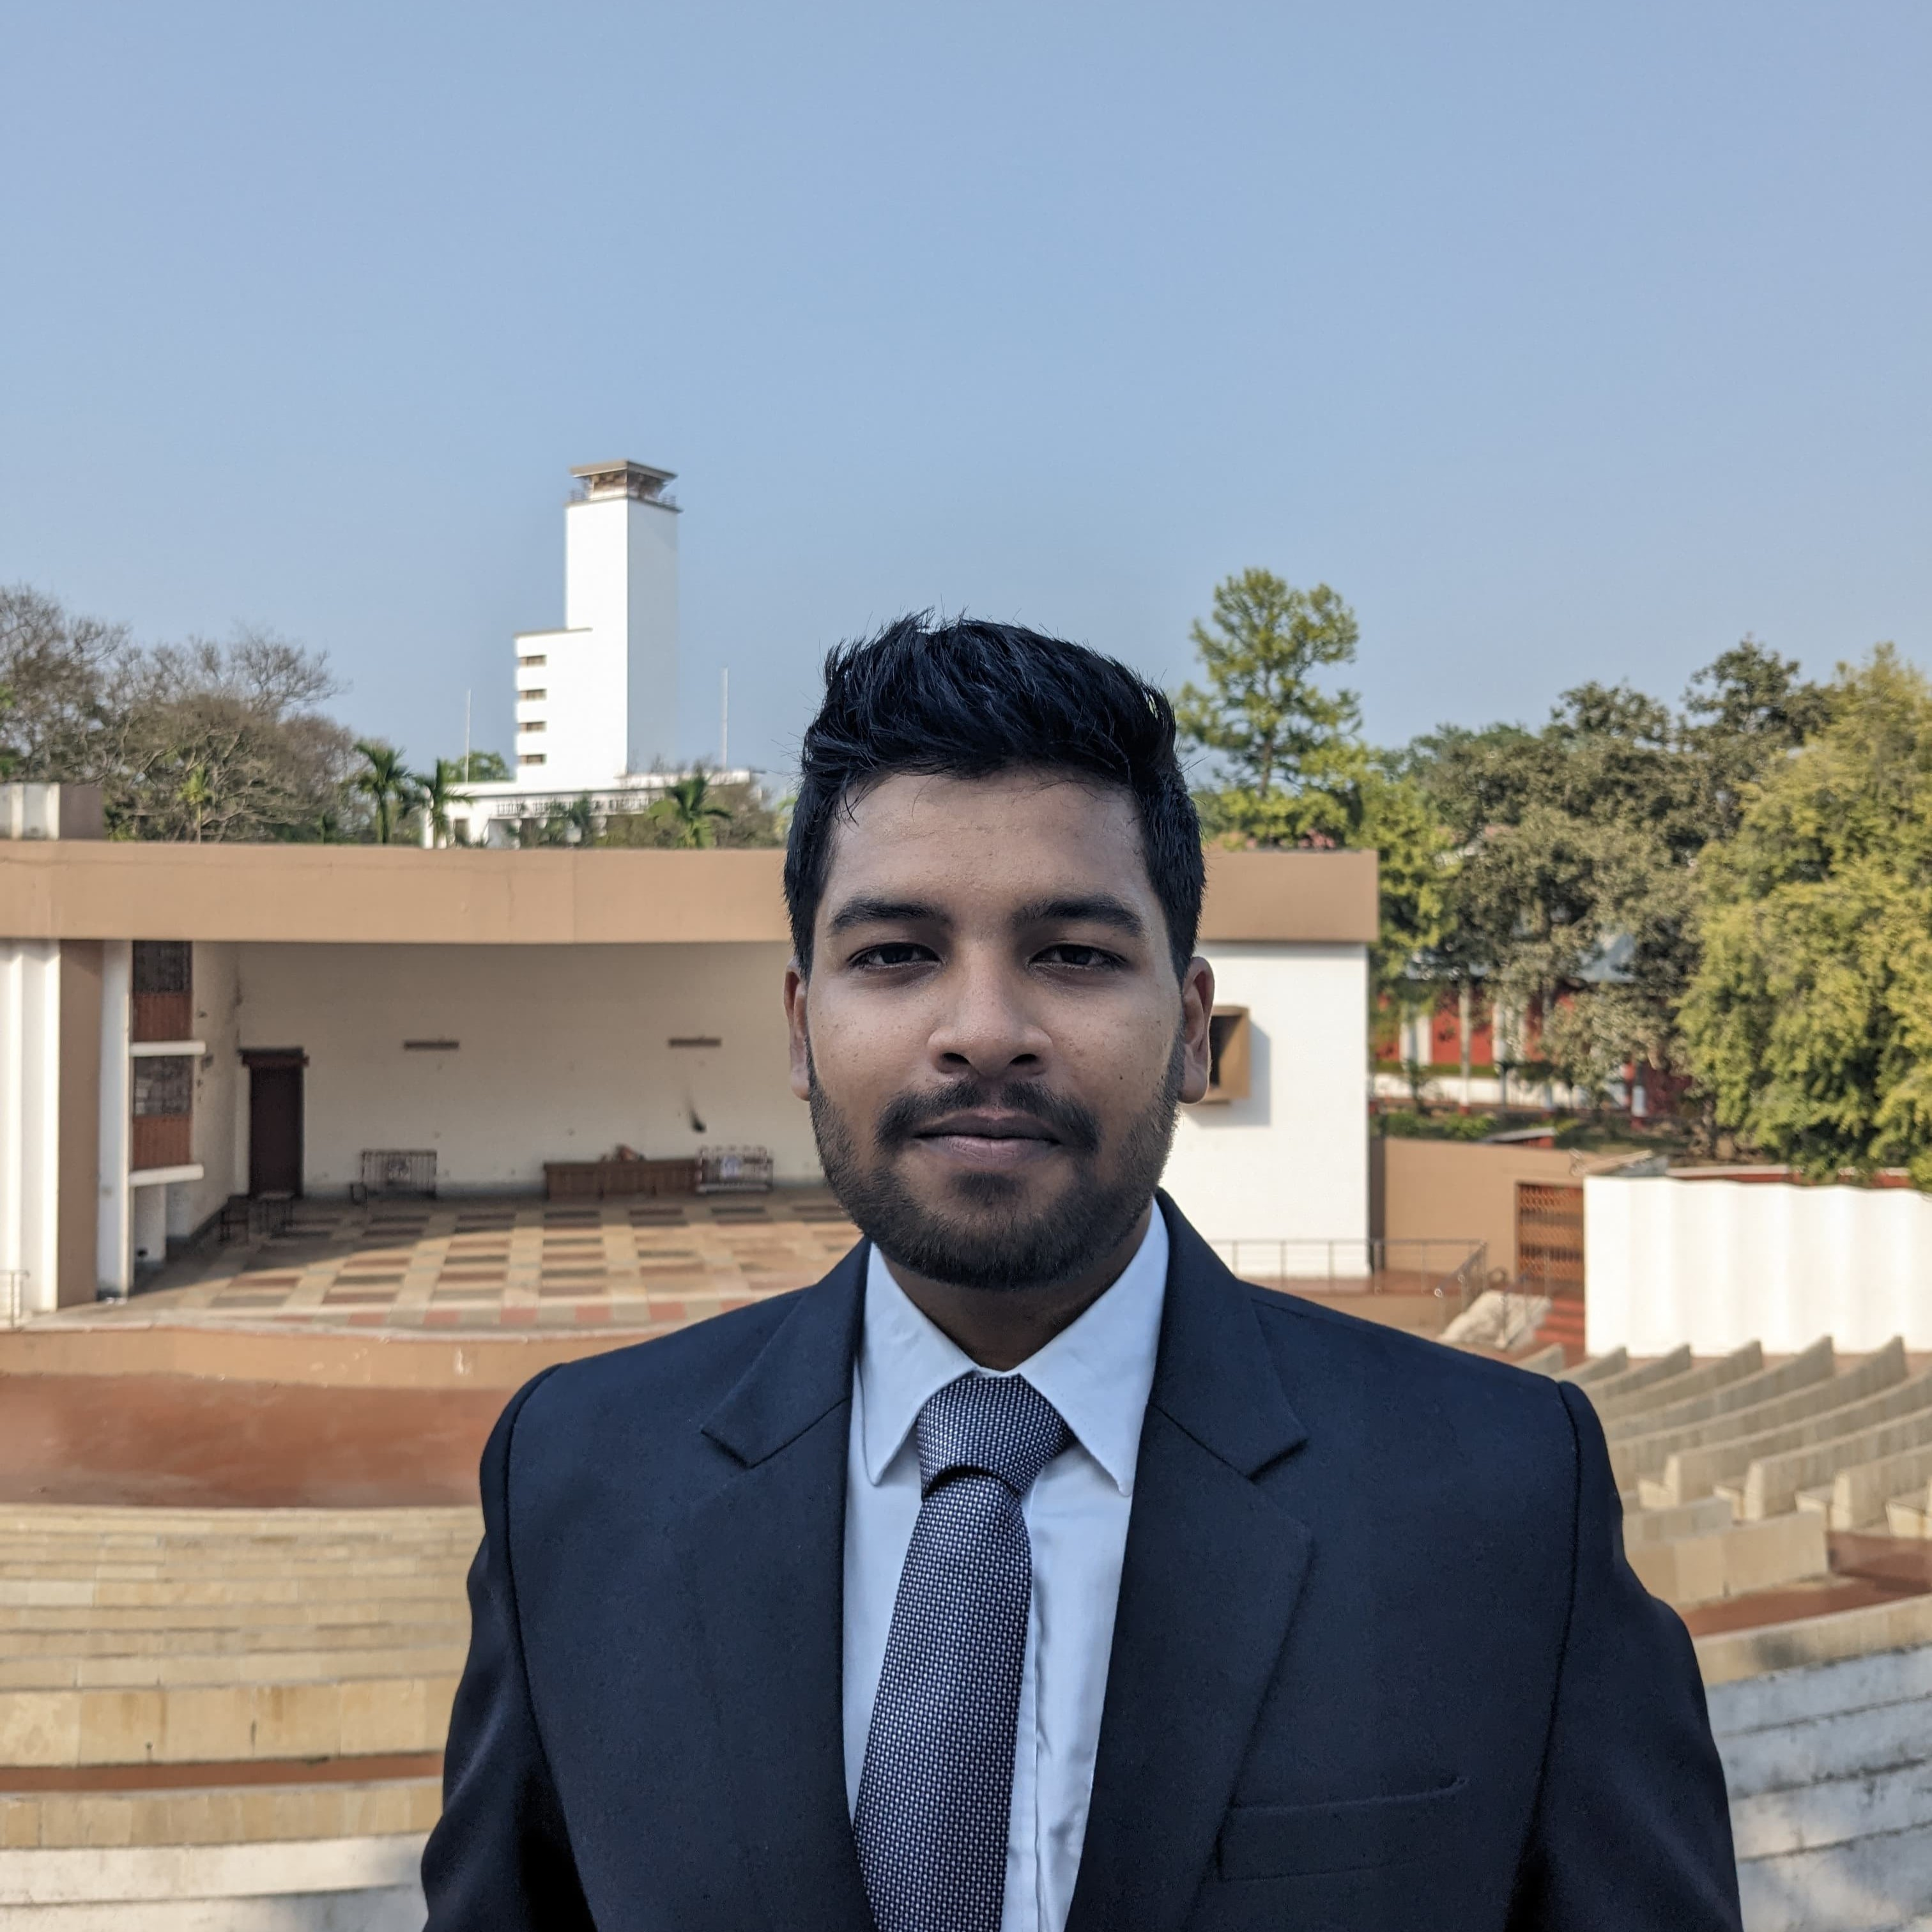
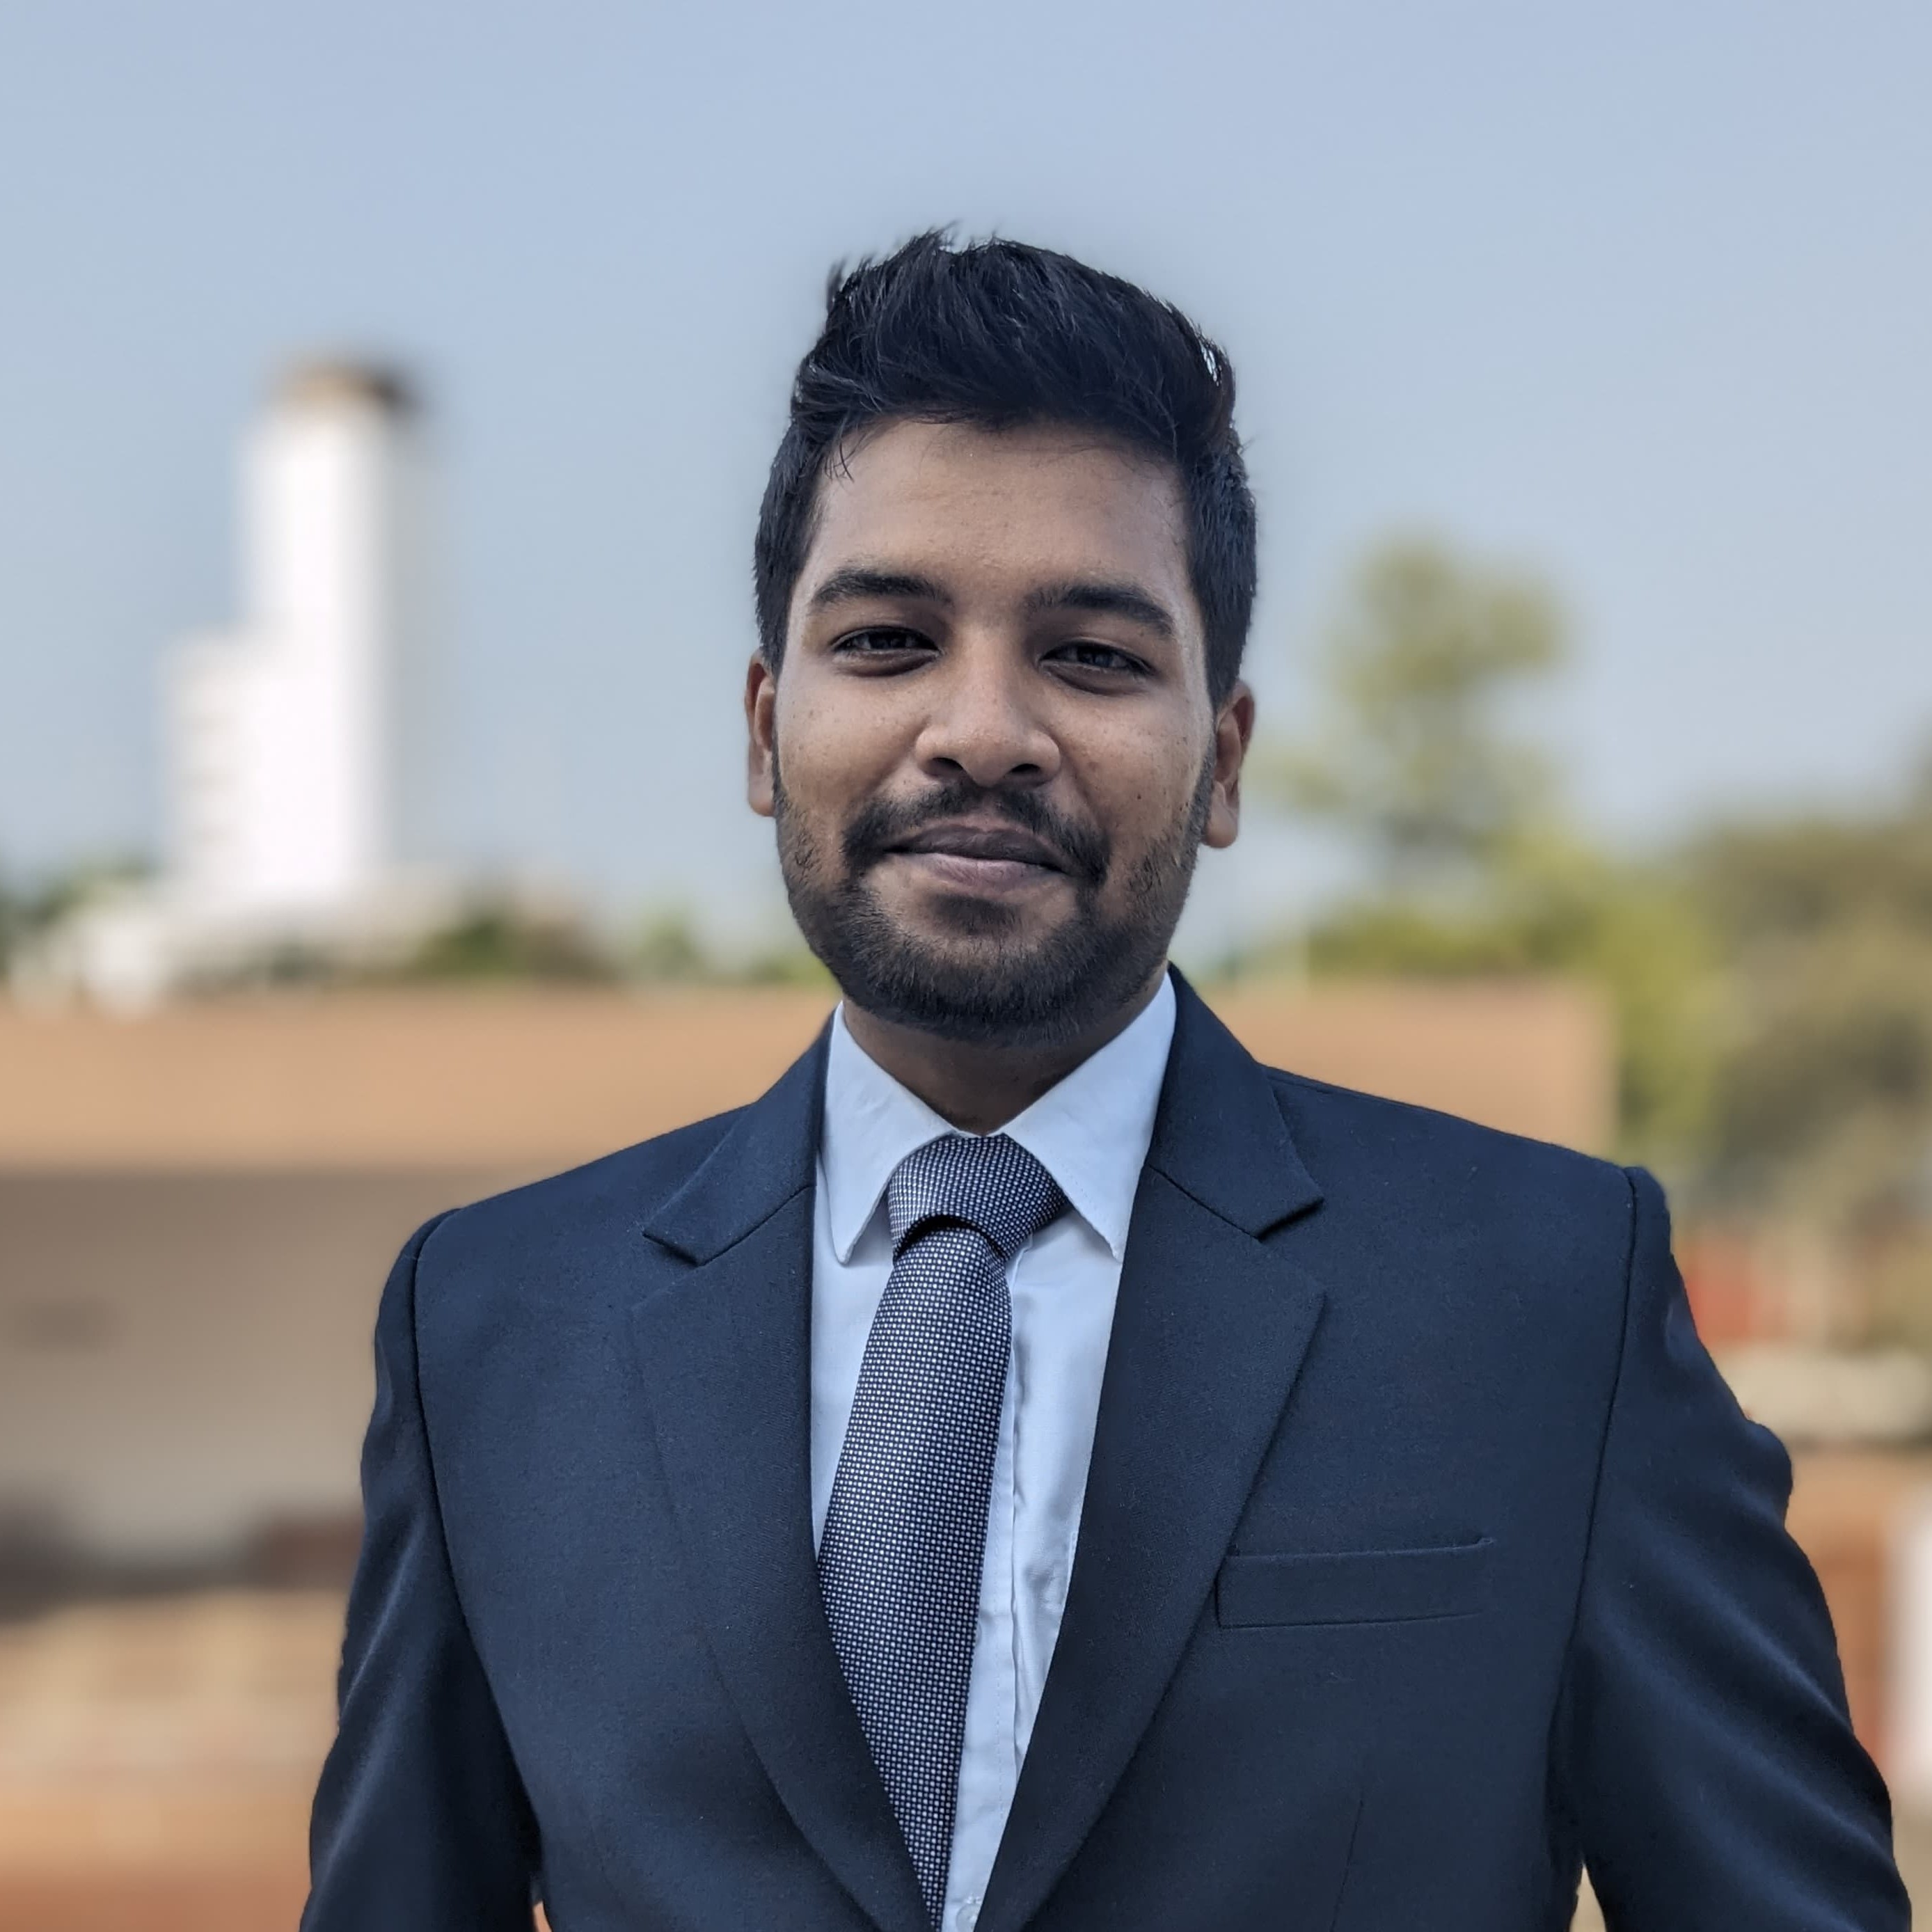
chore: update code structure for better readability and maintainability

diff --git a/_pages/cv.md b/_pages/cv.md
@@ -4,9 +4,9 @@ permalink: /cv/
 title: CV
 nav: true
 nav_order: 5
-cv_pdf: /assets/pdf/example_pdf.pdf # you can also use external links here
+cv_pdf: /assets/pdf/resume.pdf # you can also use external links here
 cv_format: rendercv # options: rendercv, jsonresume
-description: This is a description of the page. You can modify it in '_pages/cv.md'. You can also change or remove the top pdf download button.
+description: Descriptive information about me.
 toc:
   sidebar: left
 ---

diff --git a/_pages/teaching.md b/_pages/teaching.md
@@ -3,9 +3,9 @@ layout: page
 permalink: /teaching/
 title: teaching
 description: Course materials, schedules, and resources for classes taught.
-nav: true
+nav: False
 nav_order: 6
-calendar: true
+calendar: False
 ---
 
 This page displays a collection of courses with detailed schedules, materials, and resources. You can organize your courses by years, terms, or topics.